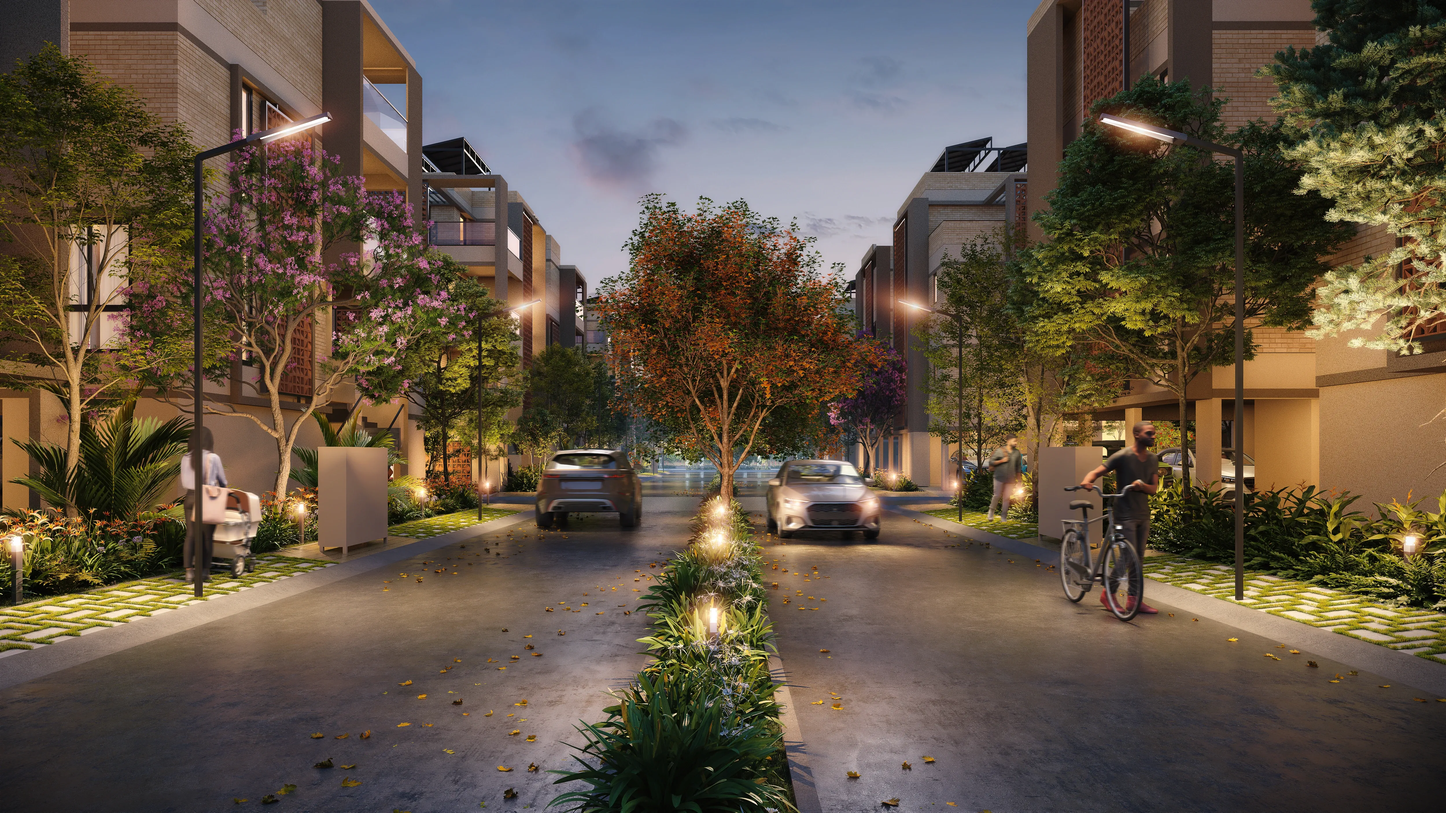
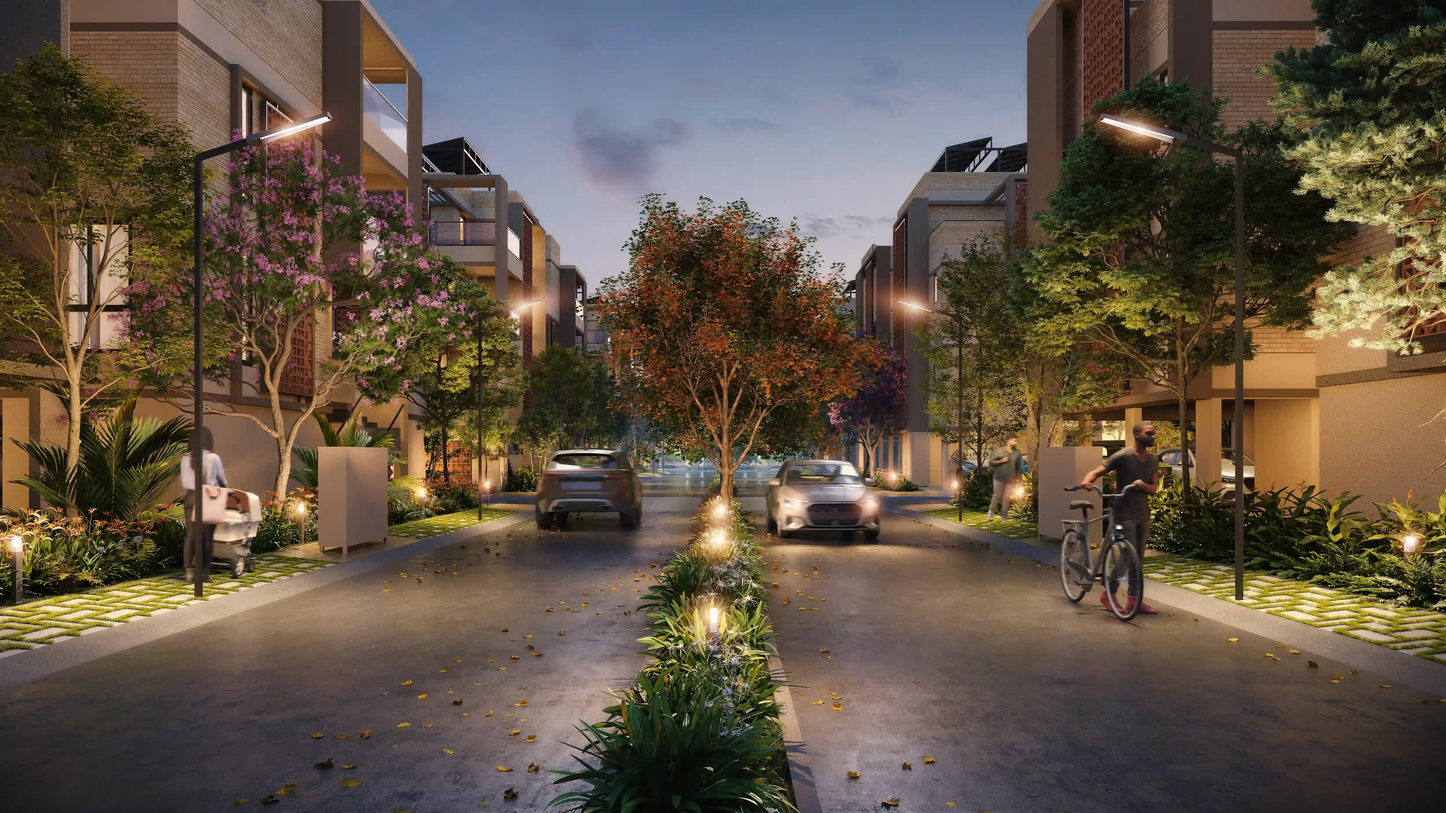
imge converted in webp nd content updted

diff --git a/src/pages/components/FooterSection.tsx b/src/pages/components/FooterSection.tsx
@@ -13,7 +13,7 @@ function FooterSection() {
       <div className="social-media-icons-and-image-holder">
         <div>
           <img
-            src="assets/footer-happy-family.png"
+            src="assets/footer-happy-family.webp"
             width={545}
             height={368}
             alt=""
